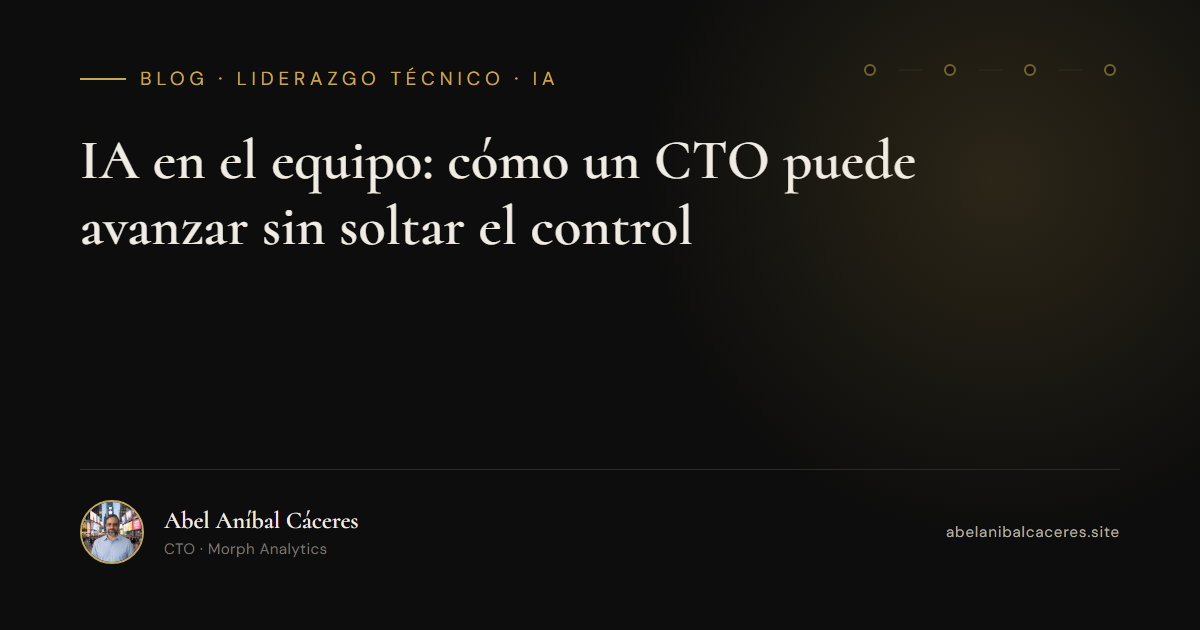
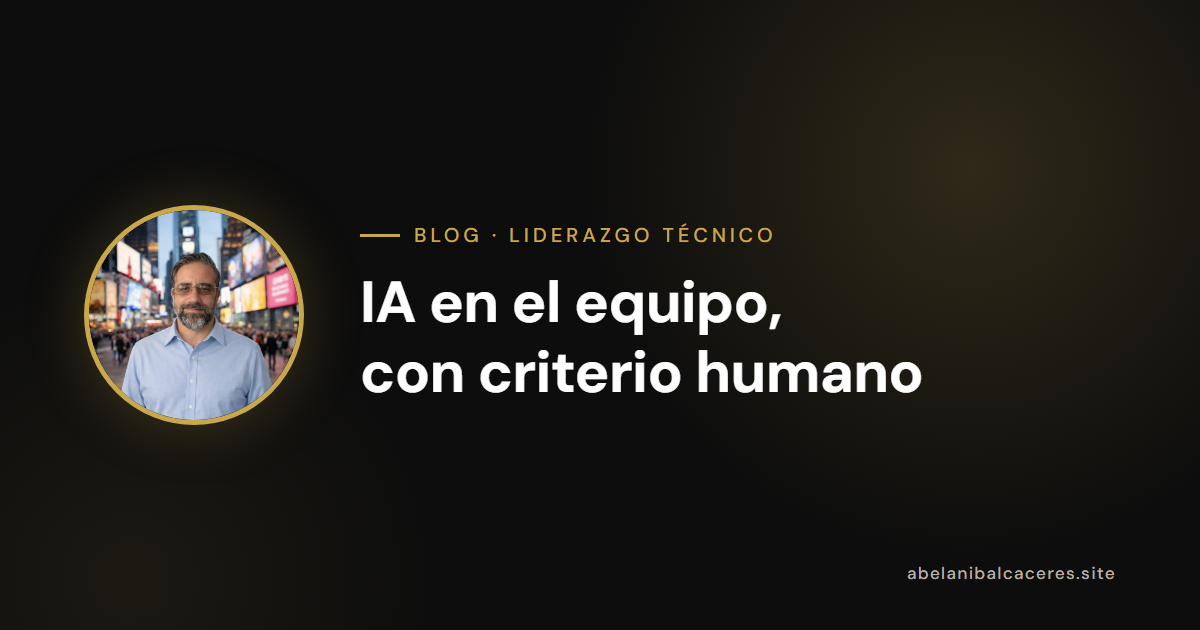
Redesign article OG image for legibility at LinkedIn's small thumbnail size
LinkedIn's personal-post link share renders og:image as a ~160px-wide
thumbnail (its "articleshare-shrink_160" cached derivative), not a large
banner. The previous design packed the full article title in fine serif
text, which turned to mush at that size. Replaced it with a big circular
portrait plus a short, bold, high-contrast headline (the full title already
displays separately as the link text on every platform), which stays
legible even scaled down to a postage-stamp size.

diff --git a/blog/og-template-article.html b/blog/og-template-article.html
@@ -4,7 +4,7 @@
 <meta charset="UTF-8" />
 <link rel="preconnect" href="https://fonts.googleapis.com">
 <link rel="preconnect" href="https://fonts.gstatic.com" crossorigin>
-<link href="https://fonts.googleapis.com/css2?family=Cormorant:wght@600&family=DM+Sans:wght@400;500&display=swap" rel="stylesheet">
+<link href="https://fonts.googleapis.com/css2?family=DM+Sans:wght@500;700&display=swap" rel="stylesheet">
 <style>
   * { margin: 0; padding: 0; box-sizing: border-box; }
   html, body { width: 1200px; height: 630px; overflow: hidden; }
@@ -16,71 +16,58 @@
   .card {
     position: relative;
     width: 1200px; height: 630px;
-    padding: 66px 80px;
-    display: flex; flex-direction: column; justify-content: space-between;
+    display: flex; align-items: center;
     overflow: hidden;
   }
   .glow {
-    position: absolute; top: -180px; right: -160px;
-    width: 720px; height: 720px;
-    background: radial-gradient(circle, rgba(201,168,76,0.16) 0%, transparent 70%);
+    position: absolute; top: -220px; right: -160px;
+    width: 780px; height: 780px;
+    background: radial-gradient(circle, rgba(201,168,76,0.18) 0%, transparent 70%);
   }
-  .motif {
-    position: absolute; top: 64px; right: 84px;
-    display: flex; align-items: center; gap: 22px;
-    opacity: 0.5;
+  .glow2 {
+    position: absolute; bottom: -260px; left: -180px;
+    width: 620px; height: 620px;
+    background: radial-gradient(circle, rgba(201,168,76,0.08) 0%, transparent 70%);
   }
-  .motif .dot { width: 12px; height: 12px; border-radius: 50%; border: 2px solid #c9a84c; background: #0d0d0d; }
-  .motif .bar { width: 24px; height: 2px; background: #2a2a2a; }
-  .top { position: relative; z-index: 1; }
-  .kicker {
-    font-size: 19px; letter-spacing: 0.25em; text-transform: uppercase;
-    color: #c9a84c; display: flex; align-items: center; gap: 14px;
-    margin-bottom: 36px;
-  }
-  .kicker::before { content: ''; width: 46px; height: 2px; background: #c9a84c; }
-  h1 {
-    font-family: 'Cormorant', serif; font-weight: 600;
-    font-size: 56px; line-height: 1.18; letter-spacing: 0.005em;
-    max-width: 980px;
-  }
-  .bottom {
+  .row {
     position: relative; z-index: 1;
-    display: flex; align-items: center; gap: 20px;
-    padding-top: 30px; border-top: 1px solid #2a2a2a;
+    display: flex; align-items: center; gap: 56px;
+    width: 100%; padding: 0 84px;
   }
-  .avatar {
-    width: 64px; height: 64px; border-radius: 50%;
-    object-fit: cover; filter: grayscale(15%);
-    border: 2px solid #c9a84c;
+  .avatar-wrap {
+    width: 220px; height: 220px; border-radius: 50%; flex-shrink: 0;
+    border: 5px solid #c9a84c; overflow: hidden;
+    box-shadow: 0 0 60px rgba(201,168,76,0.25);
   }
-  .author { display: flex; flex-direction: column; gap: 4px; }
-  .name { font-family: 'Cormorant', serif; font-size: 24px; font-weight: 600; color: #f0ece4; }
-  .role { font-size: 15px; color: #7a7570; letter-spacing: 0.03em; }
-  .domain { margin-left: auto; font-size: 15px; color: #b8b0a4; letter-spacing: 0.06em; }
+  .avatar-wrap img { width: 100%; height: 100%; object-fit: cover; filter: grayscale(15%); }
+  .text { display: flex; flex-direction: column; gap: 20px; max-width: 700px; }
+  .kicker {
+    font-size: 20px; font-weight: 500; letter-spacing: 0.2em; text-transform: uppercase;
+    color: #c9a84c; display: flex; align-items: center; gap: 14px;
+  }
+  .kicker::before { content: ''; width: 40px; height: 3px; background: #c9a84c; flex-shrink: 0; }
+  h1 {
+    font-weight: 700; font-size: 58px; line-height: 1.2; letter-spacing: -0.01em;
+    color: #ffffff;
+  }
+  .domain {
+    position: absolute; bottom: 46px; right: 84px; z-index: 1;
+    font-size: 17px; font-weight: 500; color: #b8b0a4; letter-spacing: 0.08em;
+  }
 </style>
 </head>
 <body>
   <div class="card">
     <div class="glow"></div>
-    <div class="motif">
-      <div class="dot"></div><div class="bar"></div>
-      <div class="dot"></div><div class="bar"></div>
-      <div class="dot"></div><div class="bar"></div>
-      <div class="dot"></div>
-    </div>
-    <div class="top">
-      <div class="kicker">Blog · Liderazgo Técnico · IA</div>
-      <h1>IA en el equipo: cómo un CTO puede avanzar sin soltar el control</h1>
-    </div>
-    <div class="bottom">
-      <img class="avatar" src="../yo.jpeg" />
-      <div class="author">
-        <div class="name">Abel Aníbal Cáceres</div>
-        <div class="role">CTO · Morph Analytics</div>
+    <div class="glow2"></div>
+    <div class="row">
+      <div class="avatar-wrap"><img src="../yo.jpeg" /></div>
+      <div class="text">
+        <div class="kicker">Blog · Liderazgo Técnico</div>
+        <h1>IA en el equipo,<br/>con criterio humano</h1>
       </div>
-      <div class="domain">abelanibalcaceres.site</div>
     </div>
+    <div class="domain">abelanibalcaceres.site</div>
   </div>
 </body>
 </html>
